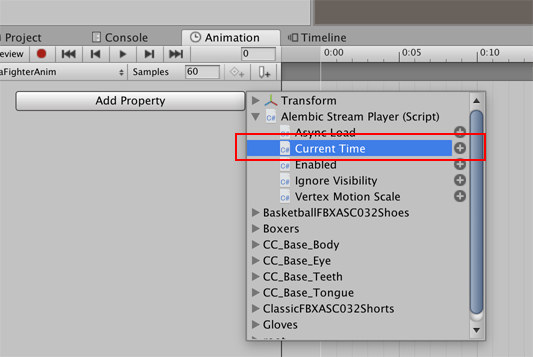
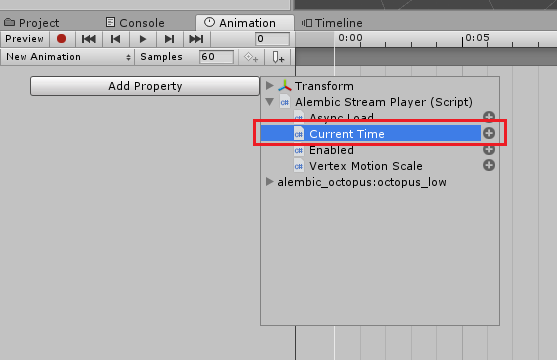
update out of date images

diff --git a/AlembicImporter/Packages/com.unity.formats.alembic/Documentation~/ref_StreamPlayer.md b/AlembicImporter/Packages/com.unity.formats.alembic/Documentation~/ref_StreamPlayer.md
@@ -9,9 +9,7 @@ You can customize import and playback through the properties on this component:
 | __Time Range__             | Select the range of the imported animation in seconds to be able to play back the animation. By default, this includes the entire animation. |
 | __Time__                   | Set the time in seconds of the animation that is currently displayed on the screen. This property operates like a playhead control, as you can scrub or animate it to play the animation. Valid values is from 0 to the length of the animation. |
 | __Vertex Motion Scale__    | Set the magnification factor when calculating velocity. Greater velocity means more blurring when used with Motion Blur. By default, the value is set to 1 (the velocity is not scaled). |
-| __Ignore Visibility__      | Enable this option to ignore (during playback) any animated visibility that may have been imported from the Alembic file. |
 | __Async Load__             | Enable this option to load the file asynchronously during playback. |
-| __Recreate Missing Nodes__ | Click to recreate nodes from the Alembic file that have been deleted from the Unity hierarchy. |
 
 > ***Note:*** Please note that copies of .abc files are created under `Assets / StreamingAssets`. This is necessary for streaming data since it requires that the .abc file remain after building the project.
 
